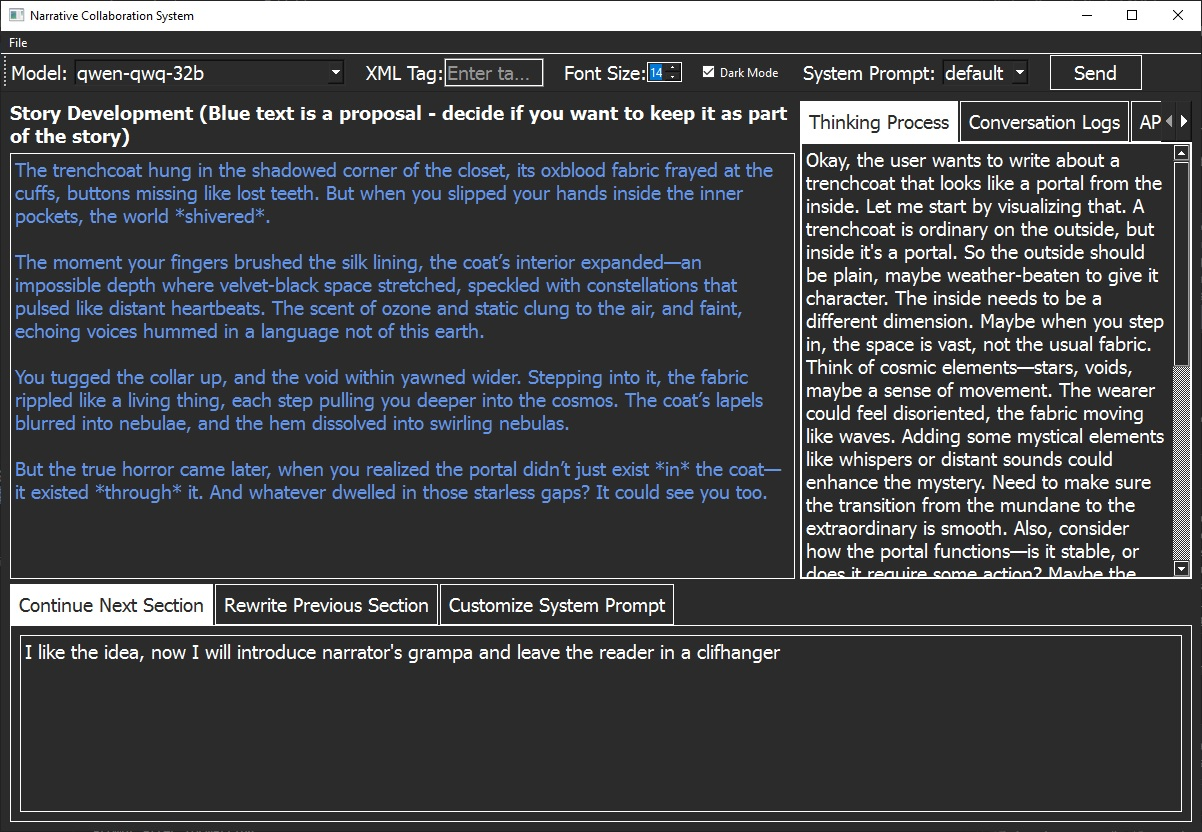
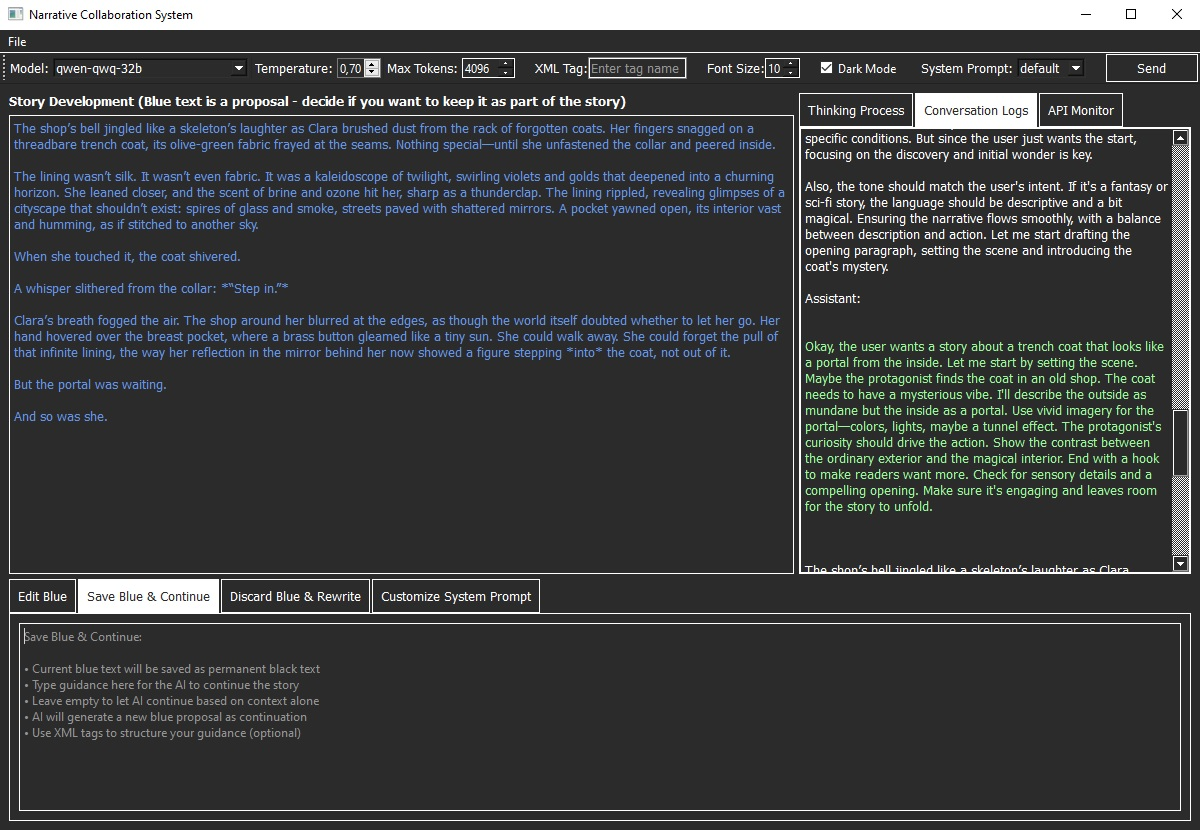
formating Conversation Log

Changed region(s): [[0.0, 0.0, 1.0, 0.994], [0.925, 0.0, 0.9558, 0.0301]]

diff --git a/main.py b/main.py
@@ -154,7 +154,7 @@ class NarrativeGUI(QMainWindow):
     # Initialize other attributes
     self.current_narrative = ""
     self.canon_validated = []
-    self.font_size = 12
+    self.font_size = 10
     self.is_dark_mode = True
     self.colors = {
       'dark': {
@@ -852,11 +852,12 @@ class NarrativeGUI(QMainWindow):
     format = self.conversation_log.currentCharFormat()
 
     # Log user input
-    format.setForeground(QColor(self.colors['dark' if self.is_dark_mode else 'light']['fg']))
+    format.setForeground(QColor(self.colors['dark' if self.is_dark_mode else 'light']['current']))
     cursor.insertText("User: ", format)
     cursor.insertText(f"{user_input}\n\n")
 
     # Log assistant response
+    format.setForeground(QColor(self.colors['dark' if self.is_dark_mode else 'light']['fg']))
     cursor.insertText("Assistant: ", format)
 
     # Split and format response based on XML think tags
@@ -947,10 +948,10 @@ class NarrativeGUI(QMainWindow):
     toolbar.addWidget(separator)
 
     # XML Tag wrapper
-    xml_label = QLabel("XML Tag:")
+    xml_label = QLabel("xml tag:")
     toolbar.addWidget(xml_label)
     self.xml_tag_input = QLineEdit()
-    self.xml_tag_input.setPlaceholderText("Enter tag name")
+    self.xml_tag_input.setPlaceholderText("custom tag")
     self.xml_tag_input.setMaximumWidth(100)
     toolbar.addWidget(self.xml_tag_input)
 
